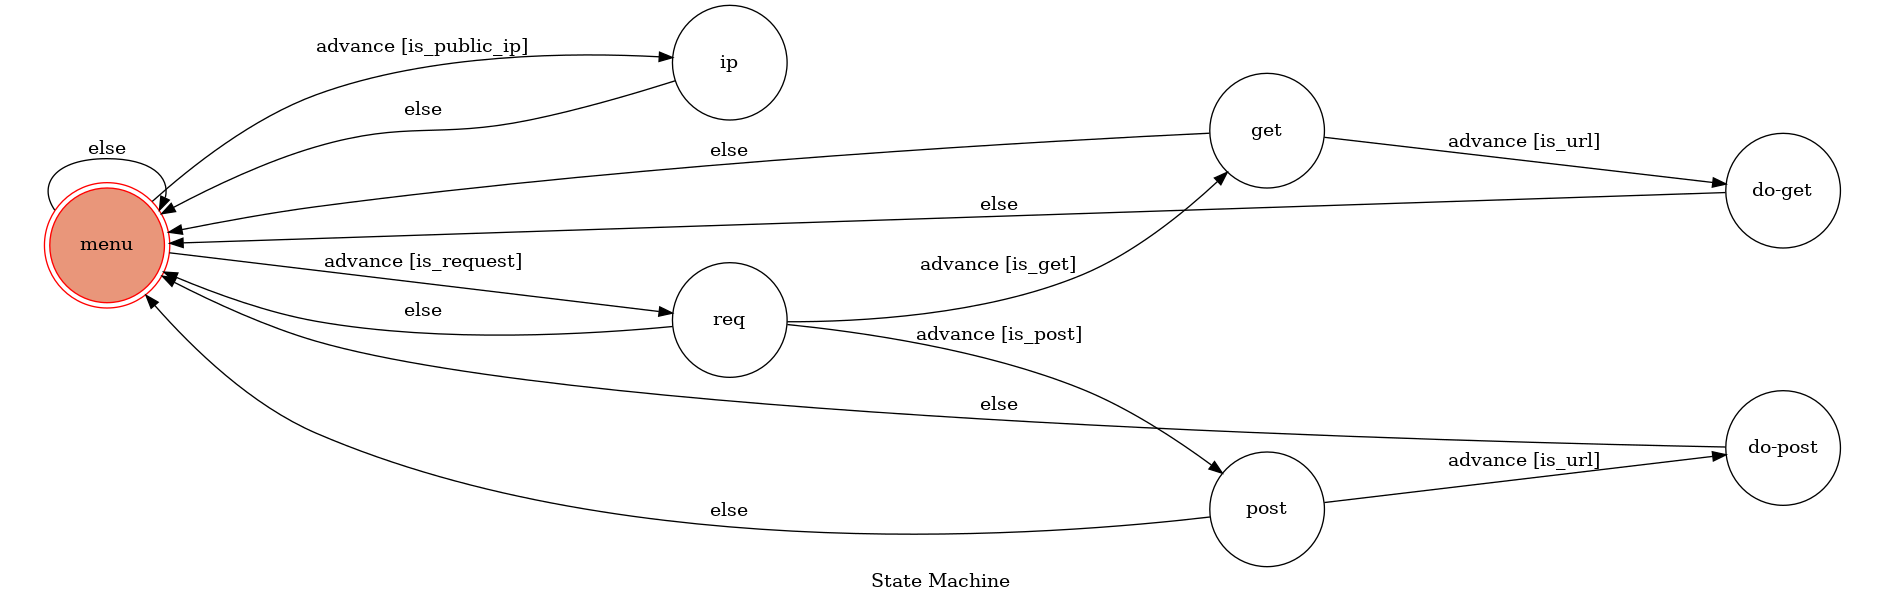
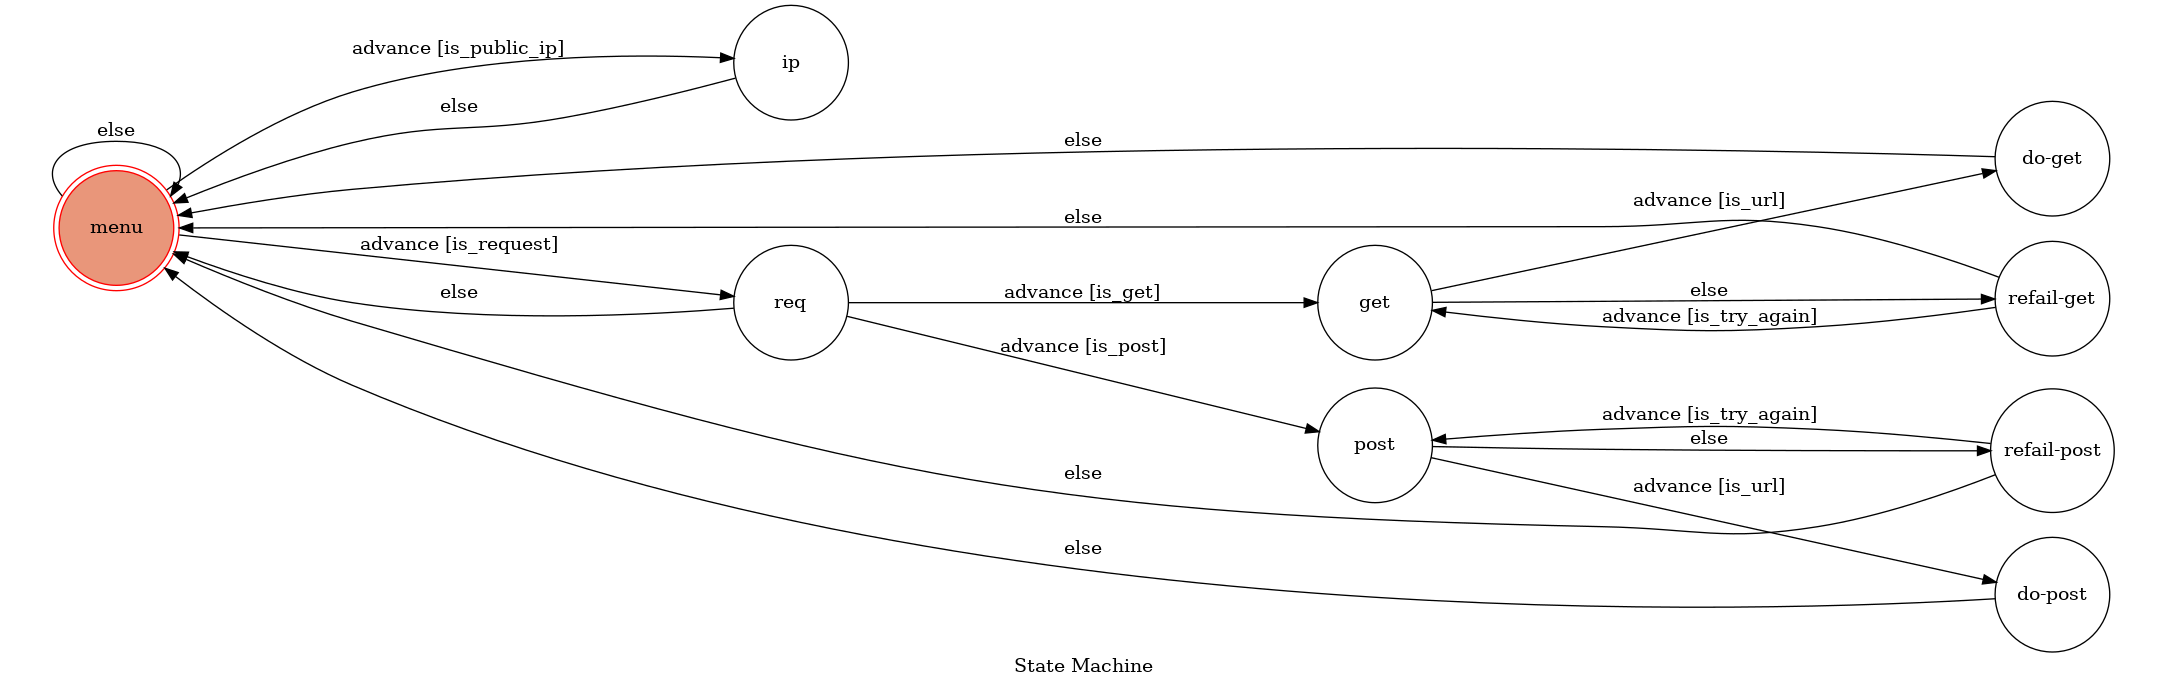
regular expression

diff --git a/fsm.py b/fsm.py
@@ -14,6 +14,9 @@ def is_get(s):
 def is_post(s):
     return s.lower()=='post'
 
+def is_try_again(s):
+    return s.lower()=='再試一次'
+
 re_url=re.compile('https?:\/\/([a-zA-Z0-9]+\.)*[a-zA-Z0-9]+(\/\S*)?')
 def is_url(s):
     global re_url
@@ -24,34 +27,43 @@ def on_json(**obj):
 
 def on_ip(**obj):
     url="https://api.ipify.org/"
-    res=client.get(url)
-    return text_msg(f'我在 {res.text} 接送你的訊息，你也可以透過 {url} 查詢你的 Public IP')
+    try:
+        res=client.get(url)
+    except:
+        return text_msg('我在人群中迷失自我...')
+    return text_msg(f'我會經過 {res.text} 接送你的訊息，你也可以透過 {url} 查詢你的 Public IP')
 
 def on_wait_url(**obj):
     return text_msg('請輸入網址')
 
+def on_refail(**obj):
+    return msg('refail')
+
 tempfiles={}
+def _success_f(uid,text):
+    filename=f'temp/{uid}.html'
+    tempfiles[uid]=text
+    path=os.path.join(os.environ.get('HOST_URL',''),filename)
+    print(path)
+    return msg('crasuccess',{'uri':path})
+
 def on_get(**obj):
     global tempfiles
     try:
         res=client.get(obj['url'])
     except:
-        return text_msg('找不到網頁')
-    uid=obj['uid']
-    filename=f'temp/{uid}.html'
-    tempfiles[uid]=res.text
-    return text_msg(os.path.join(os.environ.get('HOST_URL',''),filename))
+        return msg('crafail')
+    
+    return _success_f(obj['uid'],res.text)
 
 def on_post(**obj):
     global tempfiles
     try:
         res=client.post(obj['url'])
     except:
-        return text_msg('找不到網頁')
-    uid=obj['uid']
-    filename=f'temp/{uid}.html'
-    tempfiles[uid]=res.text
-    return text_msg(os.path.join(os.environ.get('HOST_URL',''),filename))
+        return msg('crafail')
+
+    return _success_f(obj['uid'],res.text)
 
 machine={
     "menu":{
@@ -91,7 +103,7 @@ machine={
             'next':'do-get',
             'condition':is_url
         }],
-        'else':'menu',
+        'else':'refail-get',
         'on_enter':on_wait_url
     },
     "post":{
@@ -99,8 +111,24 @@ machine={
             'next':'do-post',
             'condition':is_url
         }],
-        'else':'menu',
+        'else':'refail-post',
         'on_enter':on_wait_url
+    },
+    'refail-get':{
+        'on_enter':on_refail,
+        'advance':[{
+            'next':'get',
+            'condition':is_try_again
+        }],
+        'else':'menu'
+    },
+    'refail-post':{
+        'on_enter':on_refail,
+        'advance':[{
+            'next':'post',
+            'condition':is_try_again
+        }],
+        'else':'menu'
     },
     'do-get':{
         'on_enter':on_get,

diff --git a/utils.py b/utils.py
@@ -12,12 +12,15 @@ def complex_msg(mjson):
 def text_msg(text):
     return TextSendMessage(text=text)
 
-def msg(state):
+def msg(state,obj={}):
     try:
         with open(f"jsons/{state}.json")as f:
-            mjson=json.load(f)
+            data=f.read()
     except:
-        return TextSendMessage(text=f"jsons/{state}.json can't open")
-    print(state)
-    print(mjson)
+        return TextSendMessage(text=f"我的創造者似乎沒有給我 state={state} 的腳本")
+
+    for k in obj:
+        data=data.replace('{'+k+'}',obj[k])
+    
+    mjson=json.loads(data)
     return complex_msg(mjson)
